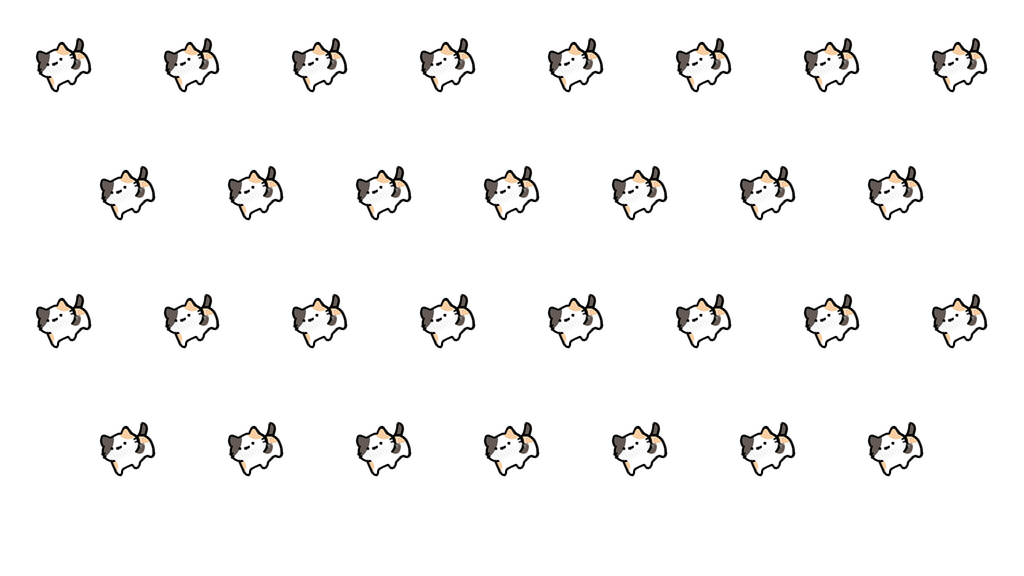
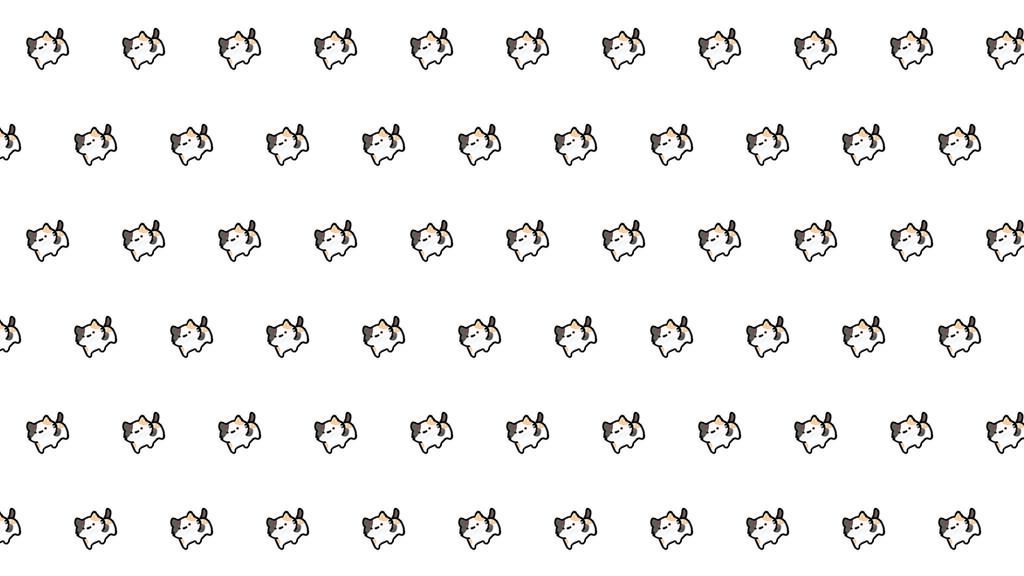
update: UI修正（契約条件）

diff --git a/app/globals.css b/app/globals.css
@@ -160,20 +160,20 @@
     isolation: isolate;
   }
   .calico-page::before {
-    content: "";
-    position: fixed;
-    inset: -16%;
-    z-index: 0;
-    pointer-events: none;
+  content: "";
+  position: fixed;
+  inset: 0;                 /* ビューポート全面に敷く */
+  z-index: 0;
+  pointer-events: none;
 
-    background-image: url("/images/calicocat.png");
-    background-size: 64px 64px;
-    background-repeat: space;
-    background-position: top left;
-    opacity: 0.14;
-    transform: rotate(-12deg) scale(1.06);
-    transform-origin: center;
-  }
+      background-image: url("/images/calicocat.png"); /* ← 新しい1枚に差し替え */
+    background-repeat: repeat;                      /* 1枚をタイル状に敷く */
+    background-position: 0 0;                       /* 左上起点で継ぎ目ゼロ */
+    background-size: 1024px 576px;                  /* 画像の実寸に固定（今回の画像サイズ） */
+
+    opacity: 0.14;                                  /* 濃さはここで微調整 */
+    transform: none;                                /* 回転/拡大は継ぎ目の原因 → 無効 */
+}
 }
 /* ページ背景使用時はカード側の猫を消す（重複防止） */
 .calico-page .calico-bg::before { content: none; }
